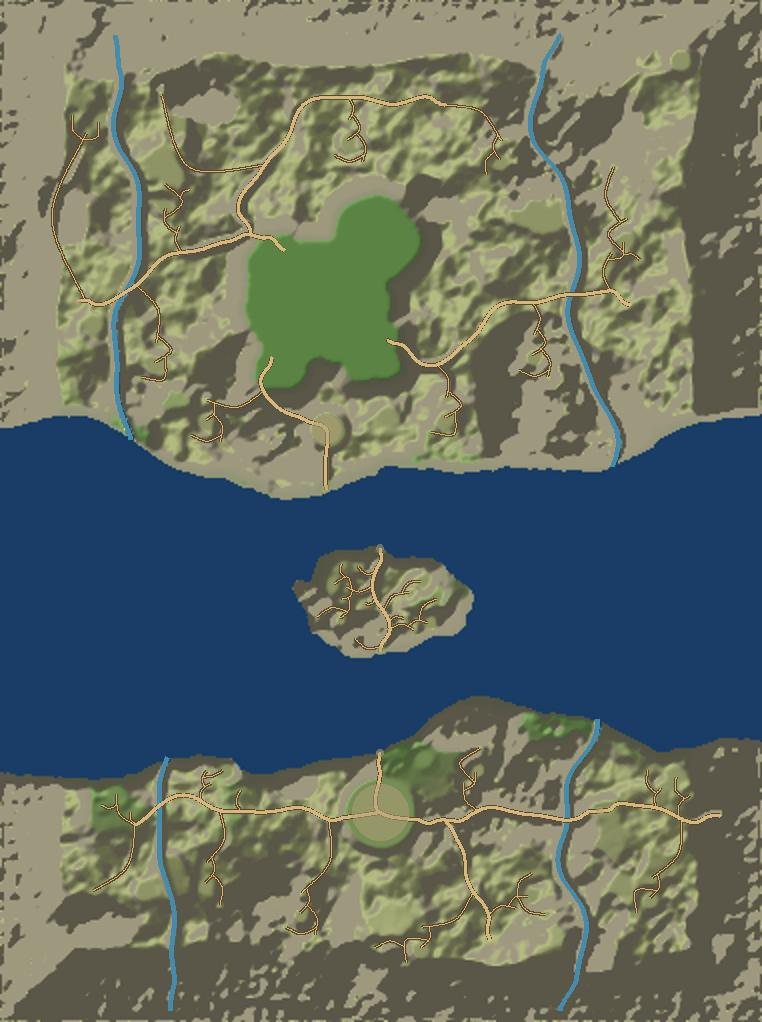
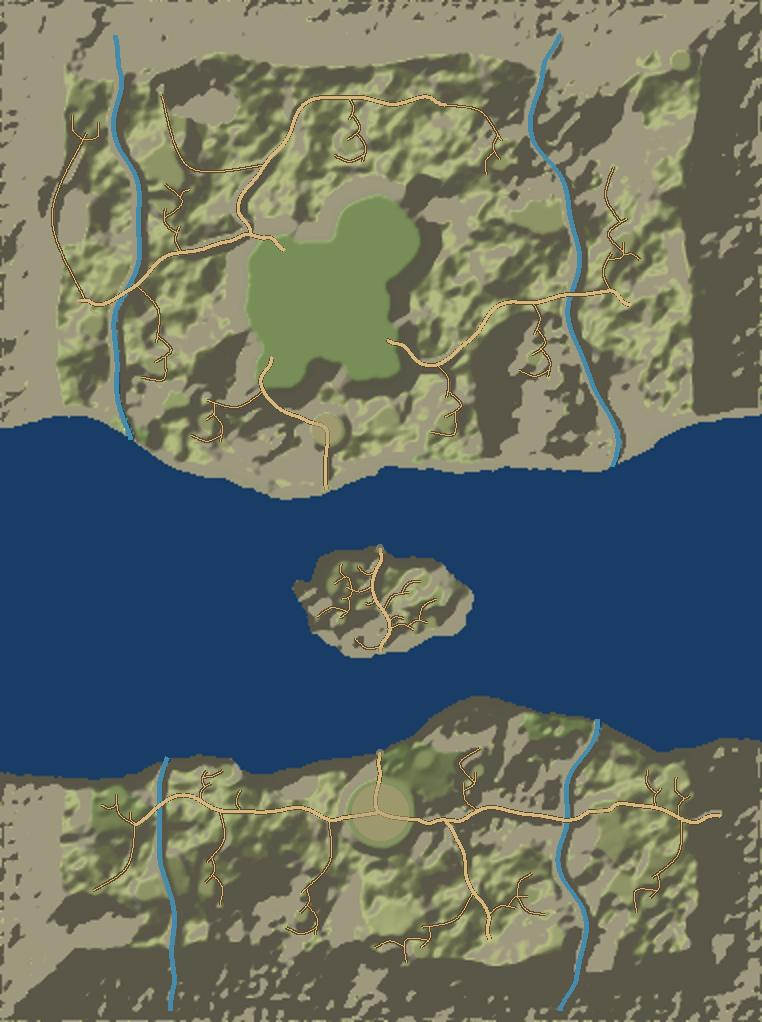
Painel: busca no leilão, mapa numa cor só e Tomo na cor do jogo
Claude-Session: https://claude.ai/code/session_01P1kkg3BjjskjFAgzRiQ1BQ

Changed region(s): [[0.3018, 0.182, 0.5735, 0.3943]]

diff --git a/server/index.js b/server/index.js
@@ -7,7 +7,7 @@ import { fileURLToPath } from 'node:url';
 import express from 'express';
 import colyseus from 'colyseus';
 import wsTransport from '@colyseus/ws-transport';
-import { Simulacao, MAPA_CLAREIRA, GOOGLE_CLIENT_ID, retTerreno, LOTES_ANTIGOS, AMIGOS, CHAT, AMIGOS_VIRTUAIS, RIVAIS, npcNoMundo, xpOfflineNpc, nomeValido, REINICIO, Leilao, LEILAO, LEILAO_BOT, TIPOS_LEILAO, anuncioParaApp, nomeItem, ehEquip, RARIDADES, CAIXA, lancarCaixa, resumoCaixa } from '@rpg/shared';
+import { Simulacao, MAPA_CLAREIRA, GOOGLE_CLIENT_ID, retTerreno, LOTES_ANTIGOS, AMIGOS, CHAT, AMIGOS_VIRTUAIS, RIVAIS, npcNoMundo, xpOfflineNpc, nomeValido, REINICIO, Leilao, LEILAO, LEILAO_BOT, TIPOS_LEILAO, anuncioParaApp, nomeItem, ehEquip, RARIDADES, estadoTomo, COR_TOMO, CAIXA, lancarCaixa, resumoCaixa } from '@rpg/shared';
 import { Contas, verificadorGoogle, roboCel, roboCarga, ROBO } from './contas.js';
 import { Visao } from './visao.js';
 import { Push } from './push.js'; // avisos no celular do painel do clã (André 2026-11-24)
@@ -661,7 +661,8 @@ class SalaClareira extends Room {
     if (m.acao === 'leilao') {
       if (agora - (u.painelLeilao || 0) < 1500) return; u.painelLeilao = agora;
       const tipo = typeof m.tipo === 'string' && TIPOS_LEILAO[m.tipo] ? m.tipo : undefined, ordem = ['barato', 'caro', 'novo'].includes(m.ordem) ? m.ordem : 'barato';
-      const app = (a) => { const r = ehEquip(a.item.k) ? RARIDADES[a.item.r | 0] : null; return { ...anuncioParaApp(a), nome: nomeItem(a.item), ...(r ? { rar: r.nome, cor: '#' + r.cor.toString(16).padStart(6, '0') } : {}) }; };
+      const hv = heroiDe(kc), prog = hv ? hv.j.prog : contas.lerProgresso(client.auth.id); // Tomo na cor do jogo: pelas skills de quem olha
+      const app = (a) => { const r = ehEquip(a.item.k) ? RARIDADES[a.item.r | 0] : null; return { ...anuncioParaApp(a), nome: nomeItem(a.item), ...(r ? { rar: r.nome, cor: '#' + r.cor.toString(16).padStart(6, '0') } : {}), ...(a.item.k === 'tomo' ? (() => { const e = estadoTomo(prog, a.item); return { cor: COR_TOMO[e], tomo: e }; })() : {}) }; };
       const texto = typeof m.texto === 'string' ? m.texto.slice(0, 24) : undefined; // parte do nome, sem acento nem maiúscula (semAcento)
       return client.send('painelLeilao', { lista: leilao.buscar({ tipo, ordem, texto }, kc).map(app), meus: leilao.meus(kc).map(app), tipos: TIPOS_LEILAO, agora });
     }

diff --git a/client/src/painel.js b/client/src/painel.js
@@ -225,7 +225,7 @@ function iconeAnuncio(a, agora) {
   q.append(desenhoItem(a.item.k, a.nome || a.item.k, a.cor));
   if ((a.item.n | 0) > 1) q.append(el('b', null, num(a.item.n)));
   d.title = a.nome;
-  d.onclick = () => aviso(`${a.item.n > 1 ? a.item.n + ' ' : ''}${a.nome}${a.rar ? ` (${a.rar})` : ''} · ${a.preco} de ouro · ${a.casa ? 'da Casa' : a.vendedor}${a.casa ? '' : ` · acaba em ${resta(a.ate - agora)}`}`);
+  d.onclick = () => aviso(`${a.item.n > 1 ? a.item.n + ' ' : ''}${a.nome}${a.rar ? ` (${a.rar})` : ''}${a.tomo != null ? ` (${['não precisa mais', 'dá para usar agora', 'vai precisar'][a.tomo]})` : ''} · ${a.preco} de ouro · ${a.casa ? 'da Casa' : a.vendedor}${a.casa ? '' : ` · acaba em ${resta(a.ate - agora)}`}`);
   d.append(q, el('small', null, num(a.preco)));
   return d;
 }
@@ -337,7 +337,7 @@ let vilaMapa = null;
     const gr = g.createLinearGradient(x0, y0, x1, y1); gr.addColorStop(0, 'rgba(0,0,0,0)'); gr.addColorStop(1, 'rgba(0,0,0,1)'); g.fillStyle = gr; g.fillRect(0, 0, T, T);
   }
   vilaMapa = c; if (aba === 'mapa') desenharMapa();
-}; im.src = 'painel-vila.jpg'; }
+}; im.src = 'painel-vila.png'; }
 let vista = null; // { cx, cz, span } quando a pessoa mexeu no mapa; null = ajusta sozinho
 const limitar = (v) => { v.span = Math.max(ZOOM.min, Math.min(ZOOM.max, v.span)); v.cx = Math.max(MUNDO.x0, Math.min(MUNDO.x0 + MUNDO.w, v.cx)); v.cz = Math.max(MUNDO.z0, Math.min(MUNDO.z0 + MUNDO.h, v.cz)); return v; };
 let quadro = null; // a vista do último desenho (para o zoom e o arrasto partirem dela)

diff --git a/shared/progresso.js b/shared/progresso.js
@@ -542,6 +542,14 @@ export const cabeNaBarra = (id, barra) => !!HABS[id] && !HABS[id].basico && (HAB
 
 // Usos para subir a skill do nível nv para nv+1
 export const usosParaSubir = (nv) => 6 + 4 * nv;
+// cor do Tomo, como no jogo (progresso.gd estado_tomo): 0 cinza = não precisa mais, 1 verde = usa agora, 2 laranja = vai precisar
+export const COR_TOMO = ['#8a8a8a', '#5fd35a', '#ff9a3c'];
+export function estadoTomo(prog, it) {
+  const h = HABS[it?.h]; if (!h || !it.nv) return 0;
+  const s = prog?.habs?.[it.h] || {}, nv = s.nv || 1;
+  if (nv >= it.nv || nv >= (h.max || SKILL_MAX)) return 0;
+  return (prog?.nivel || 1) >= (h.libera || 0) && nv === it.nv - 1 && (s.uso || 0) >= usosParaSubir(nv) ? 1 : 2;
+}
 
 // Números da skill no nível dela, como no Quimera: dano +18% (Lm), recarga -6% e cada campo de nv somado por nível
 export function habNoNivel(id, nv) {

diff --git a/ferramentas/painel/vila-casar.py b/ferramentas/painel/vila-casar.py
@@ -1,0 +1,26 @@
+# Casa o desenho da Vila (painel-vila.jpg, o minimapa do jogo) com o fundo do mundo (painel-mapa.jpg), para o Mapa do
+# painel ficar todo de um jeito só (André 2026-11-24: "um quadradão escuro e o resto homogêneo, queria tudo da mesma cor"):
+# a mata fechada e a pedra escura do minimapa ficam transparentes (aparece o mundo por baixo) e o verde vivo puxa para o
+# tom do mundo. Sai client/public/painel-vila.png. Rodar depois de vila-painel.mjs.
+import os
+import numpy as np
+from PIL import Image, ImageFilter
+RAIZ = os.path.join(os.path.dirname(__file__), '..', '..')
+v = np.array(Image.open(os.path.join(RAIZ, 'client/public/painel-vila.jpg')).convert('RGB')).astype(np.float32)
+lum = v @ np.array([0.299, 0.587, 0.114], dtype=np.float32)
+a = np.clip((lum - 70) / 40, 0, 1)  # mata fechada e pedra escura somem; chão, trilha e água ficam
+mx, mn = v.max(2), v.min(2); sat = (mx - mn) / np.maximum(mx, 1)
+a *= np.clip((sat - 0.12) / 0.1, 0, 1)  # a encosta cinza da montanha (quadrada no minimapa) também: o mundo já tem a dele
+a = np.array(Image.fromarray((a * 255).astype(np.uint8)).filter(ImageFilter.GaussianBlur(3))).astype(np.float32) / 255
+borda = np.ones_like(a); n = a.shape[0]; b = int(n * 0.08)
+r = np.minimum.reduce([np.arange(n)[None, :].repeat(n, 0), np.arange(n)[::-1][None, :].repeat(n, 0), np.arange(n)[:, None].repeat(n, 1), np.arange(n)[::-1][:, None].repeat(n, 1)])
+borda = np.clip(r / b, 0, 1)
+a *= borda
+# o verde vivo do minimapa puxa para o tom do mundo (oliva acinzentado): meio caminho para o cinza da mesma luz
+cinza = lum[..., None].repeat(3, 2)
+cor = v * 0.55 + cinza * 0.45
+cor = cor * np.array([1.04, 1.0, 0.92], dtype=np.float32)  # um pouco mais quente, como o mundo
+out = np.dstack([np.clip(cor, 0, 255), a * 255]).astype(np.uint8)
+saida = os.path.join(RAIZ, 'client/public/painel-vila.png')
+Image.fromarray(out, 'RGBA').resize((512, 512), Image.LANCZOS).save(saida, optimize=True)
+print(saida, os.path.getsize(saida) // 1024, 'KB')

diff --git a/ferramentas/painel/mapa-painel.py b/ferramentas/painel/mapa-painel.py
@@ -24,7 +24,9 @@ gx = (np.roll(hs, -1, 1) - np.roll(hs, 1, 1)) / (2 * passo); gx[:, 0] = gx[:, -1
 gz = (np.roll(hs, -1, 0) - np.roll(hs, 1, 0)) / (2 * passo); gz[0, :] = gz[-1, :] = 0
 incl = np.sqrt(gx * gx + gz * gz)
 luz = np.clip(0.95 - (gx + gz) * 0.4, 0.68, 1.2)
-cor = lerp(c8(96, 138, 72), c8(150, 156, 108), np.clip(h / 60, 0, 1))
+# o chão baixo começa já no meio do caminho do verde para o oliva: a Vila (chão plano, altura 0) não vira uma mancha
+# verde viva no meio do resto (André 2026-11-24: "queria tudo da mesma cor")
+cor = lerp(c8(96, 138, 72), c8(150, 156, 108), 0.6 + 0.4 * np.clip(h / 60, 0, 1))
 cor = lerp(cor, c8(128, 120, 106), np.where(incl > 0.7, np.clip((incl - 0.7) * 1.5, 0, 0.8), 0))
 fundo = h < 0
 perto = np.zeros_like(fundo)

diff --git a/MEMORIA.md b/MEMORIA.md
@@ -27,5 +27,5 @@ Repo público: nunca pôr senha, chave ou endereço de servidor aqui.
 - 23/11: cor livre também no Patrulheiro 2 / Roupão 2: Roupa/Calça da Aparência pintam só o pano (`Equip2.tingir`, tipo 2). 24/11: Roupa e Calça em abas na Aparência (4 trajes); Patrulheiro 2/Roupão 2 refeitos na linha do corpo afinado do jogo (`ferramentas/trajes-justos/`: o jogo afina cintura/blusa/manga, os .glb eram do corpo cru). André aprovou pelas fotos.
 - 23/11: história x clãs: Kael (líder da Geada) é rival, nunca aliado (h14, e6 com a Elara, f1, f2, cenas, diário); "A base do clã" (a12: fundar clã e base, ev `base`) e "Uma base que aguenta" (b1: cerca, tocha, baú, cama, fornalha, bigorna, taxa no cofre `cofre`), sem casa. 24/11: Ato do Clã (k1 recruta Nv 12, k2 escolta Nv 18, k3 clã Nv 2 Nv 25, k4 fim da Trégua Nv 30; ev recrutar/escolta/cla_nivel/guerra_matar).
 - 24/11: /npcs.json lê o save da tabela mundo; com crachá traz `recrutas` (clãs dos jogadores: nível, caça, função, preso). Líder bot exige recursos dos membros (nunca ouro), guarda o dos 2 próximos níveis e vende o resto (`CLAS_NPC_ORDENS.exigir`).
-- 24/11 (PR aberto, aguarda OK do André pelas fotos): aura azul incandescente da arma pelo reforço (`brilho_reforco.gdshader`, `Armas.brilho_reforco`, línguas de fogo e fumaça de aura `Armas.faiscas`): tom de azul por faixa de +10, força pelo +N. · 24/11: comida não dá vigor; dá buff (`ITENS[k].buff`, um por vez, morrer tira, `bonusComida`). Vigor máximo +1 por nível sem teto (`vigorMax`, `prog.vigor.m`; jogador e recruta); cama não dá vigor (`CAMA.vigor` 0). · 24/11: base do clã é área segura igual ao totem (`naBaseSegura`): só centro do nível + lotes abertos, sem raio; PvP não muda. · 24/11: drop cai em bicho muito abaixo do herói (`DROP_NIVEL`, opção C): até 5 acima cheio, 6-10 70%, 11-15 40%, 16+ 25%; fragmento, cristal, peça e Tomo somem com >10 acima; ouro igual. · 24/11: vibração e música de combate só na luta do próprio jogador: tiro/meteoro de outro (bot ou jogador) não passa mais por `ferir` (`info.outro`, meteoro `meu`), e `luta_perto` só segura a música com monstro que lutou comigo (`e.comigo`). · 24/11 (plano de animações): pesca com KayKit (`kk_pesca_*`, `PESCA_KK`; em pé só a puxada; barquinho inteiro, `sentar.gd maos=false`, `pesca.gd process_priority=1`); minerar/lenha ficam os antigos (André). Outros andam no ritmo da velocidade (`online.gd _passo_no_ritmo`, `PASSO_MONSTRO`). Corrida, pulo e skills do herói: não mexer. Banco de provas `ferramentas/animacoes/video-trabalho.gd` (CENA=passos CALIBRA=1). · 24/11: barra do boss de mundo (`boss_mundo.gd`) desceu para y=128, embaixo do menu do topo (antes cobria os ícones). · 24/11: lista de Totens no mapa (Lugares) do mais perto ao mais longe, com a distância (`_montar_lugares`). · 24/11: morte renasce no totem MAIS PERTO de onde caiu (`totemMaisPerto` em dados.js; antes era o último tocado); o da vila deixa cama/casa da raça valerem; offline `totem.onde_renascer(padrao, pos)`. · 24/11: toda lista rola arrastando o dedo em qualquer lugar, com inércia (`rolagem_toque.gd`, filho do main); toque curto segue clicando; listas com arrasto próprio (menu, criador, baú) têm meta `arrasto_proprio` e só pedem a inércia (`anotar`/`inercia`). · 24/11: "Ir" do mapa para spot de monstro para na borda (raio+13 m, fora da visão de 11 m; `ANTES_CACA` em minimapa.gd); outros destinos como antes. · 24/11: painel do clã (`client/painel.html`, página leve no site): entra na sala sem corpo (`sim.paineis`, `genteOnline`), recrutas ficam no mundo como online; ordens `painelFuncao` (sem Me seguir/Proteger você); semana vencida não trabalha pelo painel. · 24/11: bots e recrutas usam totens como jogador (`planoTotemAmiga` em `shared/amiga.js`, `TOTEM_BOT`): na viagem longa andam até o totem descoberto mais perto, canalizam, pagam e saem no descoberto mais perto do destino, só se poupar 80 m+; nunca teleportam de longe. Recruta levando recurso ao Baú do Clã usa a casinha (recall) a mais de 100 m (`recallRecruta` em `shared/cla.js`, `CLA.recall`): canal 8 s e recarga 10 min iguais ao jogador. · 24/11: painel do clã: mapa 2D com zoom, próximo nível e Baú em ícones, nível do líder dos clãs bot. · 24/11: painel: aba Leilão (só olhar), avisos no celular Web Push (`server/push.js`, `painel-sw.js`: recruta caiu, mochila/baú cheio, venda), cheio fica vermelho.
+- 24/11 (PR aberto, aguarda OK do André pelas fotos): aura azul incandescente da arma pelo reforço (`brilho_reforco.gdshader`, `Armas.brilho_reforco`, línguas de fogo e fumaça de aura `Armas.faiscas`): tom de azul por faixa de +10, força pelo +N. · 24/11: comida não dá vigor; dá buff (`ITENS[k].buff`, um por vez, morrer tira, `bonusComida`). Vigor máximo +1 por nível sem teto (`vigorMax`, `prog.vigor.m`; jogador e recruta); cama não dá vigor (`CAMA.vigor` 0). · 24/11: base do clã é área segura igual ao totem (`naBaseSegura`): só centro do nível + lotes abertos, sem raio; PvP não muda. · 24/11: drop cai em bicho muito abaixo do herói (`DROP_NIVEL`, opção C): até 5 acima cheio, 6-10 70%, 11-15 40%, 16+ 25%; fragmento, cristal, peça e Tomo somem com >10 acima; ouro igual. · 24/11: vibração e música de combate só na luta do próprio jogador: tiro/meteoro de outro (bot ou jogador) não passa mais por `ferir` (`info.outro`, meteoro `meu`), e `luta_perto` só segura a música com monstro que lutou comigo (`e.comigo`). · 24/11 (plano de animações): pesca com KayKit (`kk_pesca_*`, `PESCA_KK`; em pé só a puxada; barquinho inteiro, `sentar.gd maos=false`, `pesca.gd process_priority=1`); minerar/lenha ficam os antigos (André). Outros andam no ritmo da velocidade (`online.gd _passo_no_ritmo`, `PASSO_MONSTRO`). Corrida, pulo e skills do herói: não mexer. Banco de provas `ferramentas/animacoes/video-trabalho.gd` (CENA=passos CALIBRA=1). · 24/11: barra do boss de mundo (`boss_mundo.gd`) desceu para y=128, embaixo do menu do topo (antes cobria os ícones). · 24/11: lista de Totens no mapa (Lugares) do mais perto ao mais longe, com a distância (`_montar_lugares`). · 24/11: morte renasce no totem MAIS PERTO de onde caiu (`totemMaisPerto` em dados.js; antes era o último tocado); o da vila deixa cama/casa da raça valerem; offline `totem.onde_renascer(padrao, pos)`. · 24/11: toda lista rola arrastando o dedo em qualquer lugar, com inércia (`rolagem_toque.gd`, filho do main); toque curto segue clicando; listas com arrasto próprio (menu, criador, baú) têm meta `arrasto_proprio` e só pedem a inércia (`anotar`/`inercia`). · 24/11: "Ir" do mapa para spot de monstro para na borda (raio+13 m, fora da visão de 11 m; `ANTES_CACA` em minimapa.gd); outros destinos como antes. · 24/11: painel do clã (`client/painel.html`, página leve no site): entra na sala sem corpo (`sim.paineis`, `genteOnline`), recrutas ficam no mundo como online; ordens `painelFuncao` (sem Me seguir/Proteger você); semana vencida não trabalha pelo painel. · 24/11: bots e recrutas usam totens como jogador (`planoTotemAmiga` em `shared/amiga.js`, `TOTEM_BOT`): na viagem longa andam até o totem descoberto mais perto, canalizam, pagam e saem no descoberto mais perto do destino, só se poupar 80 m+; nunca teleportam de longe. Recruta levando recurso ao Baú do Clã usa a casinha (recall) a mais de 100 m (`recallRecruta` em `shared/cla.js`, `CLA.recall`): canal 8 s e recarga 10 min iguais ao jogador. · 24/11: painel do clã: mapa 2D com zoom, próximo nível e Baú em ícones, nível do líder dos clãs bot. · 24/11: painel: aba Leilão (só olhar), avisos no celular Web Push (`server/push.js`, `painel-sw.js`: recruta caiu, mochila/baú cheio, venda), cheio fica vermelho. · 24/11: painel: busca no leilão sem acento/maiúscula, mapa numa cor só (`vila-casar.py`), Tomo na cor do jogo no leilão (`estadoTomo`, `COR_TOMO`).
 - 24/11: candidato escolhido no Recrutador agora vale (servidor jogava fora o `esc` e sorteava outro); Bento Fogo do clã Seul volta a Flora Brasa (f) ao subir (`corrigirRecruta`). · 24/11: menu do clã (celular): marcar função/alvo do recruta não envia mais; só o botão "Dar ordem" (`_ordem_pend`, `_marcar_ordem` em menu.gd), igual ao painel.html. · 24/11: leilão com busca por parte do nome (sem acento; `leilao_ui.gd` filtra enquanto digita, servidor `buscar texto/ks`); o que a casa vende sem acabar DOBRA a cada compra por conta e esquece 1 compra a cada 2 h (`LEILAO.casaSobe`); peça Rara dos bots não fica mais presa a 143 (teto da loja pela raridade). · 24/11: leilão mais variado: recruta de clã bot só entrega ao líder o recurso da ordem (`ia.levar`) e a Alma, o resto é dele; antes de vender material na loja, bot e líder olham o leilão (menos de 3 anúncios: anunciam); vagas do bot 3 recurso + 1 poção/comida (`LEILAO_BOT.vagas`); a casa esconde o item que tem anúncio e volta 24 h depois do último (`LEILAO.casaSome`). · 24/11: menu do clã (jogo): Próximo nível em ícones tenho/preciso igual ao painel (`_icone_req_cla`); Fragmento de Alma Geada/Chama = fumaça espiritual (`ferramentas/painel/alma-icone.py`), jogo e painel.
